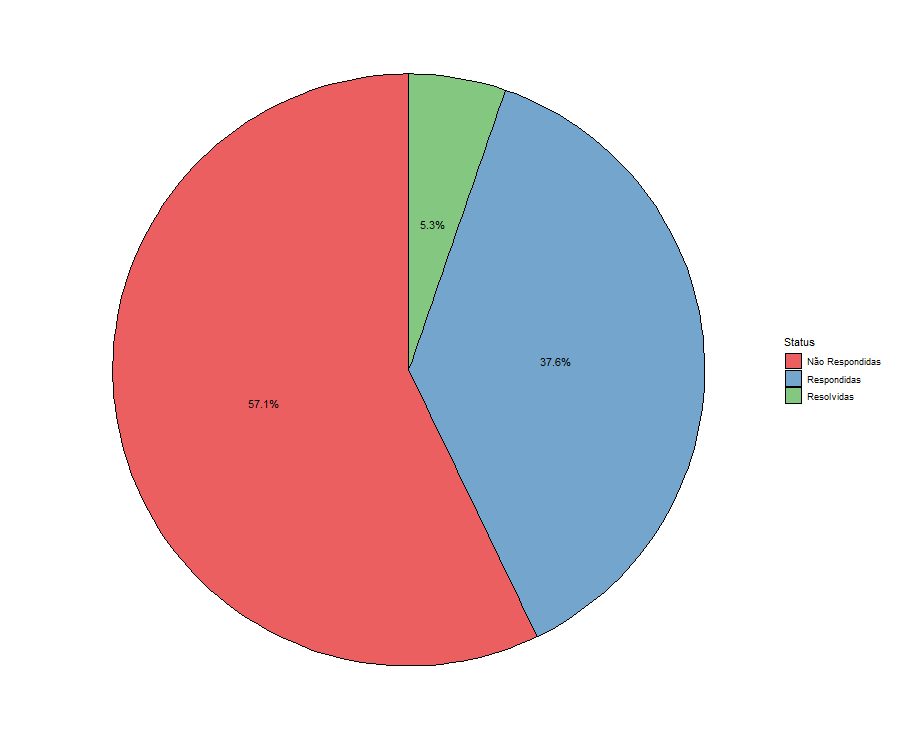
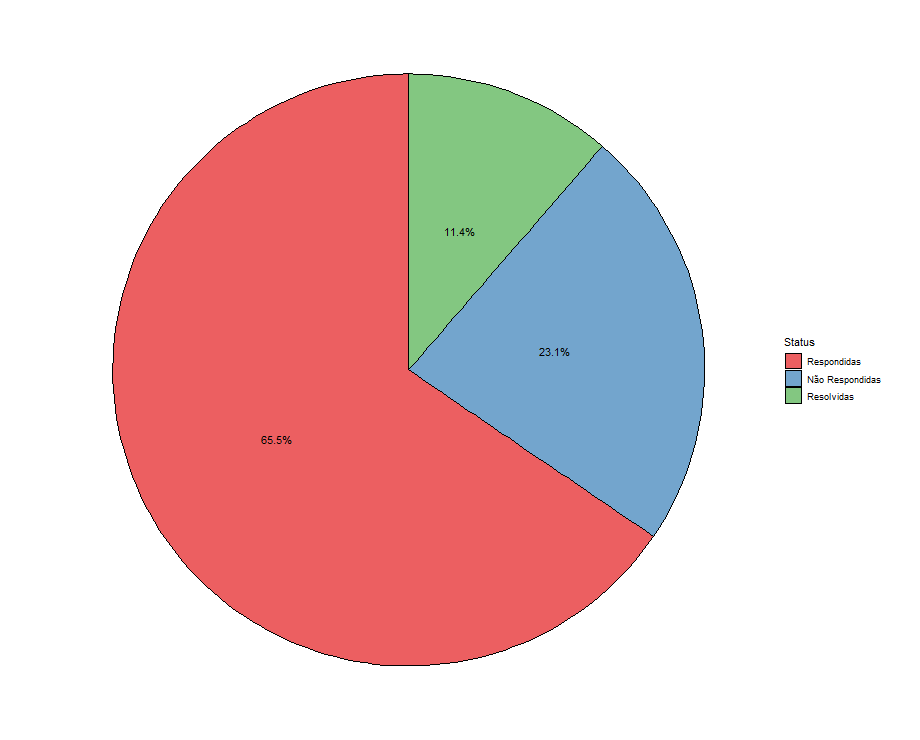
atualizacao scraper

diff --git a/src/controllers/scraperController.js b/src/controllers/scraperController.js
@@ -1,27 +1,37 @@
-let {spawn} = require('child_process');
-
 function chamarApi(req, res){
-    var link = req.params.link;
 
-    console.log("LINK: " + link)
-
-    let scriptPython = spawn('python', ['public/js/caca-reclamacao/main.py'], { encoding : 'utf8', stdio: 'ignore' });
-
-    scriptPython.stdout.on('data', (data) => {
-        // Saida do console da API
-        console.log(`Saida do Terminal: ${data}`)
-    });
+    var link = req.body.linkSolicitado;
     
-    scriptPython.stderr.on('data', (data) => {
-        // Saida de erros da API
-        console.log(`Saida do Terminal: ${data}`)
-    });
+    console.log("TESTE 500000: " + link)
+
+    if(link == undefined){
+        res.status(400).send("NAO TA CHEGANDO AQ NAO");
+    }else if(link == null){
+        res.status(400).send("CHEGOU VAZIO FI")
+    }else{
+        let {spawn} = require('child_process');
+
+        console.log("TESTE 2: " + link);
+
+        let scriptPython = spawn('python', ['public/js/caca-reclamacao/main.py', String(link)], { encoding : 'utf8'});
     
-    scriptPython.on('close', (code) => {
-        // Saida da API
-        console.log(`Script Executado!`)
-        res.status(204).send("API Executada com sucesso!")
-    });
+        scriptPython.stdout.on('data', (data) => {
+            // Saida do console da API
+            console.log(`Saida do Terminal: ${data}`)
+        });
+        
+        scriptPython.stderr.on('data', (data) => {
+            // Saida de erros da API
+            console.log(`Saida do Terminal: ${data}`)
+        });
+        
+        scriptPython.on('close', (code) => {
+            // Saida da API
+            console.log(`Script Executado!`)
+            res.status(204).send("API Executada com sucesso!")
+        });
+    }
+    
 }
 
 module.exports = {

diff --git a/public/js/python.js b/public/js/python.js
@@ -15,7 +15,11 @@ function reset(){
     });
 }
 
-function chamarApi(link){
+function chamarApi(){
+
+    var link = document.getElementById("linkReclameaqui").value;
+
+    alert("TESTE 1:" + link)
 
     h2Cloud.style.display = 'block';
     h2Status.style.display = 'block';
@@ -34,8 +38,14 @@ function chamarApi(link){
     h2Cloud.innerHTML = "Realizando Scraping, por favor aguarde na página...";
     h2Status.innerHTML = "Realizando Scraping, por favor aguarde na página...";
 
-    fetch(`/scraper/scraper/${link}`, {
-        cache: 'no-store'
+    fetch("/scraper/rotaPython", {
+        method: "POST",
+        headers: {
+            "Content-Type": "application/json"
+        },
+        body: JSON.stringify({
+            linkSolicitado: link
+        })
     }).then(function (retorno){
         if(retorno.status == 204) {
 
@@ -56,6 +66,8 @@ function chamarApi(link){
 
             imgStatus.setAttribute("src", "../js/caca-reclamacao/Plots/piestautus.png");
             imgWordcloud.setAttribute("src", "../js/caca-reclamacao/Plots/wordcloud.png");
+        }else if(retorno.status == 400){
+            alert("eunaosei");
         }else{
             alert("deu ruim ai")
             alert("Parte 1: " + retorno)

diff --git a/public/dashboard/scraper.html b/public/dashboard/scraper.html
@@ -69,10 +69,11 @@
                 <div class="main_scraper">
                     <h1>Web Scraper - Reclame Aqui</h1>
                     <h3>Nessa página você poderá utilizar nosso Web Scraper do site Reclame Aqui, ao ser executado nosso scraper gera uma wordcloud com as palavras mais frequentes nas reclamações dos seus clientes e um gráfico simples que te informa qual o 'status' das reclamações. Para seu funcionamento, basta informar a página do reclame aqui de seu banco:</h3>
+                    <h4>Link Exemplo: www.reclameaqui.com.br/empresa/nome-da-sua-empresa/lista-reclamacoes/?busca=pix</h4>
 
                     <div class="campoLink">
-                        <input>
-                        <button onclick="chamarApi('teste')">Gerar</button>
+                        <input id="linkReclameaqui">
+                        <button onclick="chamarApi()">Gerar</button>
                     </div>
 
                     <div class="wordcloud">

diff --git a/src/routes/scraper.js b/src/routes/scraper.js
@@ -3,7 +3,7 @@ var router = express.Router();
 
 var scraperControler = require("../controllers/scraperController");
 
-router.get("/scraper/:link", function (req, res){
+router.post("/rotaPython", function (req, res){
     scraperControler.chamarApi(req, res);
 });
 

diff --git a/public/js/caca-reclamacao/main.py b/public/js/caca-reclamacao/main.py
@@ -20,7 +20,7 @@ import subprocess
 import sys
 import cv2
 
-# link = cv2.imread(sys.argv[1])
+link = str(sys.argv[1])
 
 so = platform.system()
 
@@ -31,6 +31,7 @@ if so == 'Windows':
 elif so == 'Linux':
     user_agente = "Mozilla/5.0 (X11; Linux x86_64) AppleWebKit/537.36 (KHTML, like Gecko) Chrome/107.0.0.0 Safari/537.36"
 
+print(f"LINK AQ: {link}")
 
 option = Options()
 option.add_argument("--headless")
@@ -52,7 +53,7 @@ r = 0
 rs = 0
 
 while i <= 25:
-    url_base = f"{link}{i}"
+    url_base = f"https://{link}&pagina={i}"
     driver.get(url=url_base)
     
     driver.get_screenshot_as_file("public/js/caca-reclamacao/screenshot.png")
